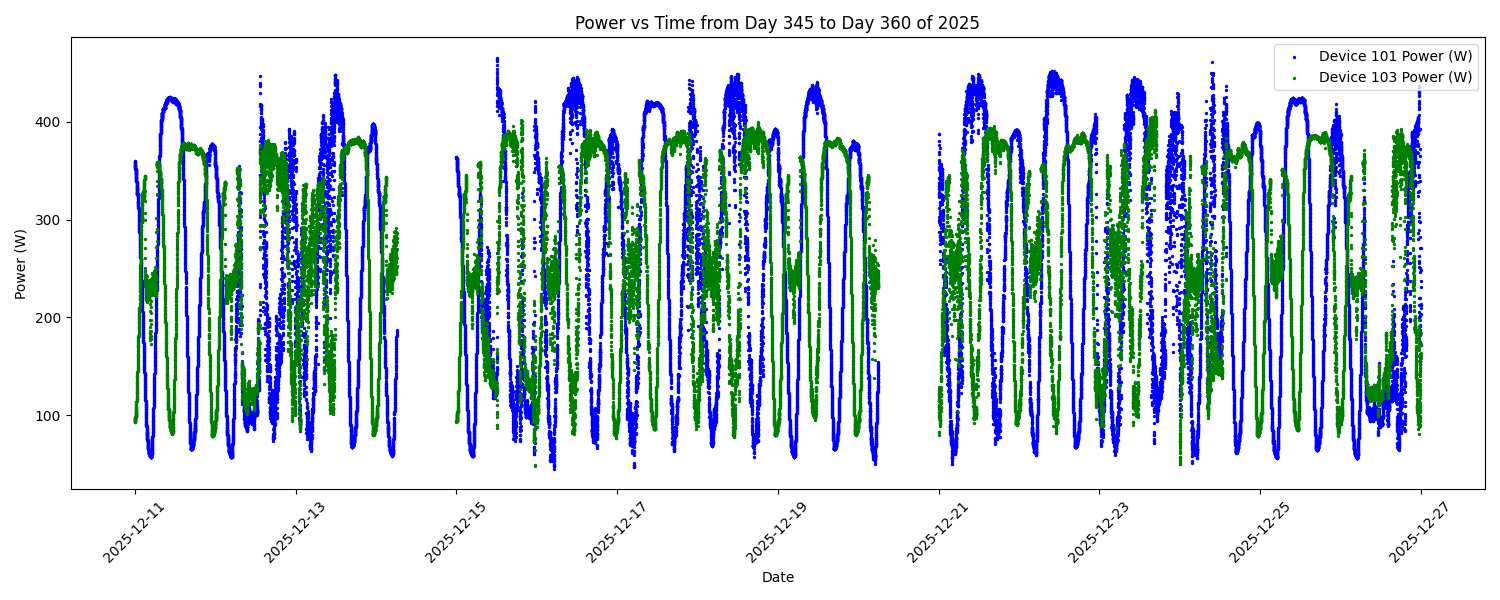
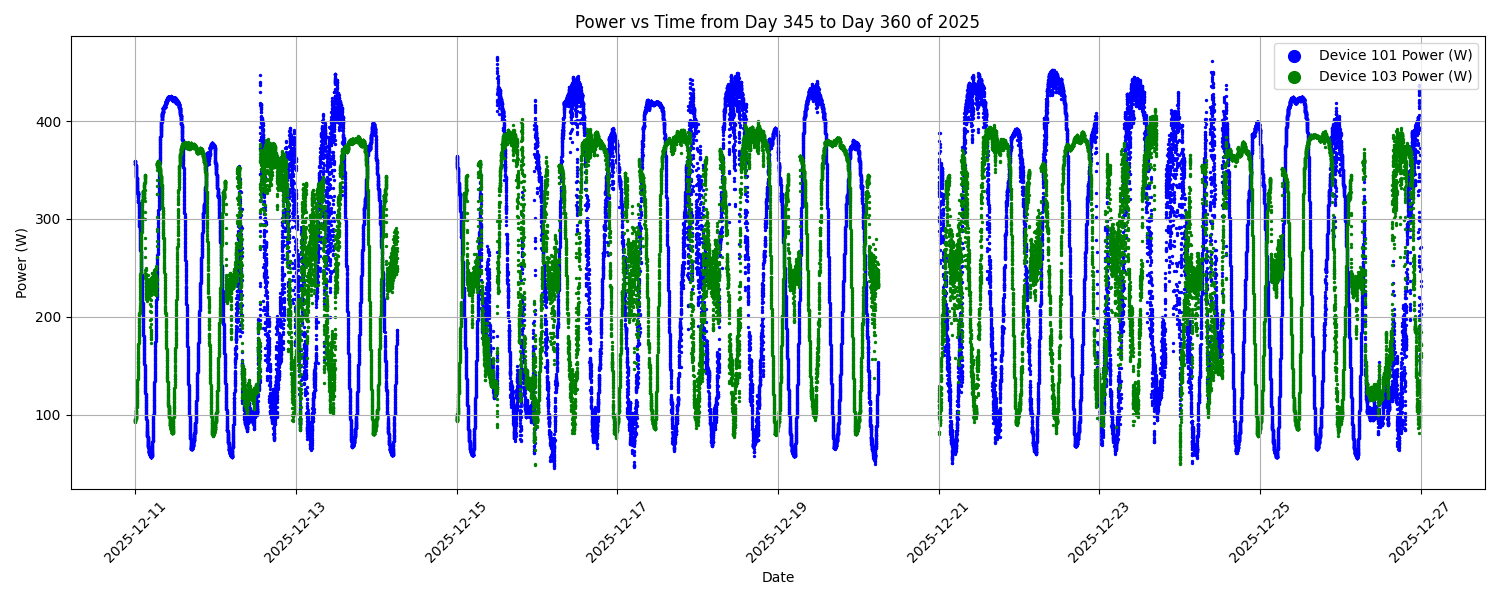
Made a multiple day hourly plot. you can put in multiple days and give the power each hour

diff --git a/.ipynb_checkpoints/multiple_day_hourly_plot-checkpoint.py b/.ipynb_checkpoints/multiple_day_hourly_plot-checkpoint.py
@@ -1,0 +1,147 @@
+import numpy as np
+import matplotlib.pyplot as plt
+import pandas as pd
+from datetime import datetime, timedelta
+import matplotlib.dates as mdates
+import os
+import urllib.request
+import random
+
+
+def date2num(date_str): # Renamed 'date' to 'date_str' to avoid confusion with the datetime.date object
+    # 26 # first conver the xxxx-xx-xx format to date(xxxx, xx, xx)
+
+    # You can skip splitting the string and go directly to parsing:
+    date_object = datetime.strptime(date_str, '%Y-%m-%d').date()
+    
+    # 29 # return the day of the year (%j) as an integer
+    # The strftime method returns a string, so we convert it to an integer.
+    return int(date_object.strftime('%j'))
+
+
+year = input('Enter last 2 digits of the year: ')
+StartDay = int(input('Starting Day: '))
+EndDay = int(input('Ending Day: '))
+
+day_range =  np.arange(StartDay, EndDay + 1)
+day_range = ['{0:03d}'.format(i) for i in day_range]
+print(day_range)
+    
+all_data_101 = []
+all_data_103 = []
+for i in day_range:
+    try:
+        file101 = pd.read_csv(f"DataFolder/spo_dev101_{year}_{i}.csv")
+        file103 = pd.read_csv(f"DataFolder/spo_dev103_{year}_{i}.csv")
+    except FileNotFoundError:
+        print(f"File for day {i} not found. Skipping this day.")
+        continue
+    file101.rename(columns = {'Device ID': 'V', 'Voltage': 'A'}, inplace=True)
+    file103.rename(columns = {'Device ID': 'V', 'Voltage': 'A'}, inplace=True)
+    date_101 = file101['Date']
+    NumberDate = date_101.apply(date2num)
+    mask_to_keep =  NumberDate <= int(i)
+    file101 = file101[mask_to_keep]
+
+    date_103 = file103['Date']
+    NumberDate = date_103.apply(date2num)
+    mask_to_keep = NumberDate <= int(i)
+    file103 = file103[mask_to_keep]
+
+    all_data_101.append(file101)
+    all_data_103.append(file103)
+#convert list of dataframes to a single dataframe
+combined_101 = pd.concat(all_data_101, ignore_index=True)
+combined_103 = pd.concat(all_data_103, ignore_index=True)
+print(combined_101[:-10])
+#plot for different days
+time_101 = combined_101['Time']
+voltage_101 = combined_101['V'] 
+current_101 = combined_101['A']
+
+time_103 = combined_103['Time']
+voltage_103 = combined_103['V'] 
+current_103 = combined_103['A']
+
+power_101 = voltage_101 * current_101
+power_103 = voltage_103 * current_103
+
+dates_101 = combined_101['Date']
+dates_103 = combined_103['Date']
+#combine date and time to a single datetime object
+datetime_101 = [datetime.strptime(d + ' ' + t, '%Y-%m-%d %H:%M:%S') for d, t in zip(dates_101, time_101)]
+datetime_103 = [datetime.strptime(d + ' ' + t, '%Y-%m-%d %H:%M:%S') for d, t in zip(dates_103, time_103)]
+
+# Make hourl
+power_101_hourly = power_101.groupby(power_101.index//120).mean()
+power_103_hourly = power_103.groupby(power_103.index//120).mean()
+
+datetime_101_hourly = datetime_101[::120]
+datetime_103_hourly = datetime_103[::120]
+
+#date in x-axis in format mm-dd HH:MM
+plt.figure(figsize=(15, 6))
+plt.scatter(datetime_101_hourly, power_101_hourly, label='Device 101 Power (W)', color='blue', s=12)
+plt.scatter(datetime_103_hourly, power_103_hourly, label='Device 103 Power (W)', color='green', s=12)
+plt.plot(datetime_101_hourly, power_101_hourly, label='Device 101 Power (W)', color='blue')
+plt.plot(datetime_103_hourly, power_103_hourly, label='Device 103 Power (W)', color='green')
+plt.grid('on')
+plt.xlabel('Date')
+plt.ylabel('Power (W)')
+plt.title(f'Power vs Time from Day {StartDay} to Day {EndDay} of 20{year}')
+plt.legend(markerscale=1)
+plt.xticks(rotation=45)
+plt.tight_layout()
+plt.savefig(f"MultiDayPlotsFolder/MultiDayHourly/MultipledayPlots_Hourly_20{year}_{StartDay}_to_{EndDay}.png")
+plt.show()
+'''
+Days_101 = []
+Days_103 = []
+for i in range(DayRange):
+    file_101 = pd.read_csv(f"DataFolder/spo_dev101_{year}_{i + StartDay}.csv")
+    file_103 = pd.read_csv(f"DataFolder/spo_dev103_{year}_{i + StartDay}.csv")
+
+    file_101.rename(columns = {'Device ID': 'V', 'Voltage': 'A'}, inplace=True)
+    file_103.rename(columns = {'Device ID': 'V', 'Voltage': 'A'}, inplace=True)
+
+    date = file_101['Date']
+    NumberDate = date.apply(date2num)
+    mask_to_keep =  NumberDate <= int(i)
+    file_101 = file_101[mask_to_keep]
+    # print(f'DEBUG: {mask_to_keep}')
+    # print(f'DEBUG: {NumberDate}')
+    
+    date = file_103['Date']
+    NumberDate = date.apply(date2num)
+    mask_to_keep = NumberDate <= int(i)
+    file_103 = file_103[mask_to_keep]
+    
+    #Extract time, voltage and current data
+    
+    time_101 = file_101['Time']
+    voltage_101 = file_101['V'] 
+    current_101 = file_101['A'] 
+    
+    time_103 = file_103['Time']
+    voltage_103 = file_103['V'] 
+    current_103 = file_103['A'] 
+    
+    power_101 = voltage_101 * current_101
+    power_103 = voltage_103 * current_103
+    
+    Device_101_Dict = {'time': time_101, 'voltage': voltage_101, 'current': current_101, 'power': power_101}
+    Device_103_Dict = {'time': time_103, 'voltage': voltage_103, 'current': current_103, 'power': power_103}
+
+    Days_101.append(Device_101_Dict)
+    Days_103.append(Device_103_Dict)
+
+
+plt.figure()
+for i in range(DayRange):
+
+    PowerData = Device_101_dict[i]['power']
+    TimeData = Device_101_dict[i]['time']
+        
+    plt.plot(TimeData, PowerData)
+plt.savefig(f"MultiDayPlotsFolder/MultipledayPlots")
+'''

diff --git a/multiple_day_hourly_plot.py b/multiple_day_hourly_plot.py
@@ -1,0 +1,147 @@
+import numpy as np
+import matplotlib.pyplot as plt
+import pandas as pd
+from datetime import datetime, timedelta
+import matplotlib.dates as mdates
+import os
+import urllib.request
+import random
+
+
+def date2num(date_str): # Renamed 'date' to 'date_str' to avoid confusion with the datetime.date object
+    # 26 # first conver the xxxx-xx-xx format to date(xxxx, xx, xx)
+
+    # You can skip splitting the string and go directly to parsing:
+    date_object = datetime.strptime(date_str, '%Y-%m-%d').date()
+    
+    # 29 # return the day of the year (%j) as an integer
+    # The strftime method returns a string, so we convert it to an integer.
+    return int(date_object.strftime('%j'))
+
+
+year = input('Enter last 2 digits of the year: ')
+StartDay = int(input('Starting Day: '))
+EndDay = int(input('Ending Day: '))
+
+day_range =  np.arange(StartDay, EndDay + 1)
+day_range = ['{0:03d}'.format(i) for i in day_range]
+print(day_range)
+    
+all_data_101 = []
+all_data_103 = []
+for i in day_range:
+    try:
+        file101 = pd.read_csv(f"DataFolder/spo_dev101_{year}_{i}.csv")
+        file103 = pd.read_csv(f"DataFolder/spo_dev103_{year}_{i}.csv")
+    except FileNotFoundError:
+        print(f"File for day {i} not found. Skipping this day.")
+        continue
+    file101.rename(columns = {'Device ID': 'V', 'Voltage': 'A'}, inplace=True)
+    file103.rename(columns = {'Device ID': 'V', 'Voltage': 'A'}, inplace=True)
+    date_101 = file101['Date']
+    NumberDate = date_101.apply(date2num)
+    mask_to_keep =  NumberDate <= int(i)
+    file101 = file101[mask_to_keep]
+
+    date_103 = file103['Date']
+    NumberDate = date_103.apply(date2num)
+    mask_to_keep = NumberDate <= int(i)
+    file103 = file103[mask_to_keep]
+
+    all_data_101.append(file101)
+    all_data_103.append(file103)
+#convert list of dataframes to a single dataframe
+combined_101 = pd.concat(all_data_101, ignore_index=True)
+combined_103 = pd.concat(all_data_103, ignore_index=True)
+print(combined_101[:-10])
+#plot for different days
+time_101 = combined_101['Time']
+voltage_101 = combined_101['V'] 
+current_101 = combined_101['A']
+
+time_103 = combined_103['Time']
+voltage_103 = combined_103['V'] 
+current_103 = combined_103['A']
+
+power_101 = voltage_101 * current_101
+power_103 = voltage_103 * current_103
+
+dates_101 = combined_101['Date']
+dates_103 = combined_103['Date']
+#combine date and time to a single datetime object
+datetime_101 = [datetime.strptime(d + ' ' + t, '%Y-%m-%d %H:%M:%S') for d, t in zip(dates_101, time_101)]
+datetime_103 = [datetime.strptime(d + ' ' + t, '%Y-%m-%d %H:%M:%S') for d, t in zip(dates_103, time_103)]
+
+# Make hourl
+power_101_hourly = power_101.groupby(power_101.index//120).mean()
+power_103_hourly = power_103.groupby(power_103.index//120).mean()
+
+datetime_101_hourly = datetime_101[::120]
+datetime_103_hourly = datetime_103[::120]
+
+#date in x-axis in format mm-dd HH:MM
+plt.figure(figsize=(15, 6))
+plt.scatter(datetime_101_hourly, power_101_hourly, label='Device 101 Power (W)', color='blue', s=12)
+plt.scatter(datetime_103_hourly, power_103_hourly, label='Device 103 Power (W)', color='green', s=12)
+plt.plot(datetime_101_hourly, power_101_hourly, label='Device 101 Power (W)', color='blue')
+plt.plot(datetime_103_hourly, power_103_hourly, label='Device 103 Power (W)', color='green')
+plt.grid('on')
+plt.xlabel('Date')
+plt.ylabel('Power (W)')
+plt.title(f'Power vs Time from Day {StartDay} to Day {EndDay} of 20{year}')
+plt.legend(markerscale=1)
+plt.xticks(rotation=45)
+plt.tight_layout()
+plt.savefig(f"MultiDayPlotsFolder/MultiDayHourly/MultipledayPlots_Hourly_20{year}_{StartDay}_to_{EndDay}.png")
+plt.show()
+'''
+Days_101 = []
+Days_103 = []
+for i in range(DayRange):
+    file_101 = pd.read_csv(f"DataFolder/spo_dev101_{year}_{i + StartDay}.csv")
+    file_103 = pd.read_csv(f"DataFolder/spo_dev103_{year}_{i + StartDay}.csv")
+
+    file_101.rename(columns = {'Device ID': 'V', 'Voltage': 'A'}, inplace=True)
+    file_103.rename(columns = {'Device ID': 'V', 'Voltage': 'A'}, inplace=True)
+
+    date = file_101['Date']
+    NumberDate = date.apply(date2num)
+    mask_to_keep =  NumberDate <= int(i)
+    file_101 = file_101[mask_to_keep]
+    # print(f'DEBUG: {mask_to_keep}')
+    # print(f'DEBUG: {NumberDate}')
+    
+    date = file_103['Date']
+    NumberDate = date.apply(date2num)
+    mask_to_keep = NumberDate <= int(i)
+    file_103 = file_103[mask_to_keep]
+    
+    #Extract time, voltage and current data
+    
+    time_101 = file_101['Time']
+    voltage_101 = file_101['V'] 
+    current_101 = file_101['A'] 
+    
+    time_103 = file_103['Time']
+    voltage_103 = file_103['V'] 
+    current_103 = file_103['A'] 
+    
+    power_101 = voltage_101 * current_101
+    power_103 = voltage_103 * current_103
+    
+    Device_101_Dict = {'time': time_101, 'voltage': voltage_101, 'current': current_101, 'power': power_101}
+    Device_103_Dict = {'time': time_103, 'voltage': voltage_103, 'current': current_103, 'power': power_103}
+
+    Days_101.append(Device_101_Dict)
+    Days_103.append(Device_103_Dict)
+
+
+plt.figure()
+for i in range(DayRange):
+
+    PowerData = Device_101_dict[i]['power']
+    TimeData = Device_101_dict[i]['time']
+        
+    plt.plot(TimeData, PowerData)
+plt.savefig(f"MultiDayPlotsFolder/MultipledayPlots")
+'''
